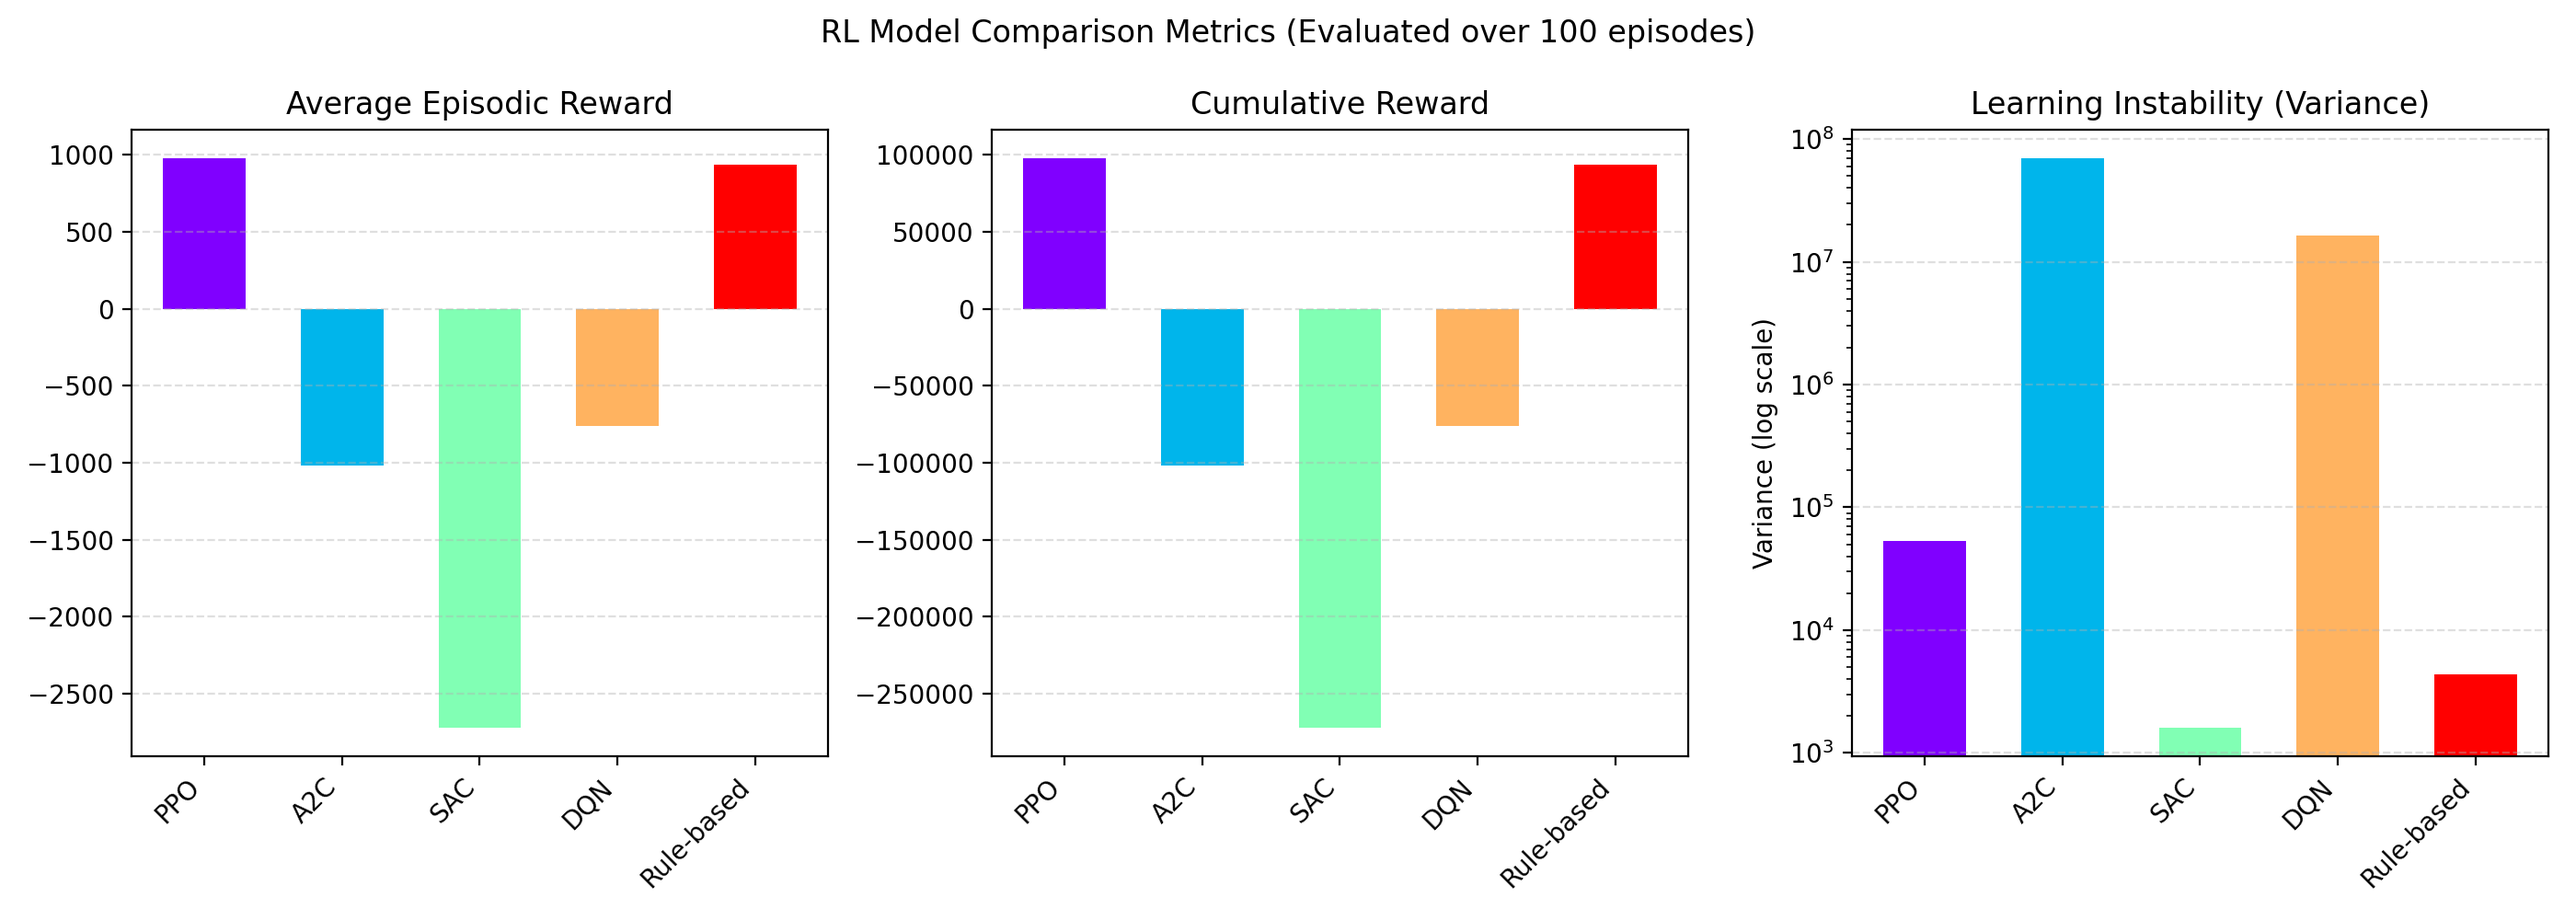
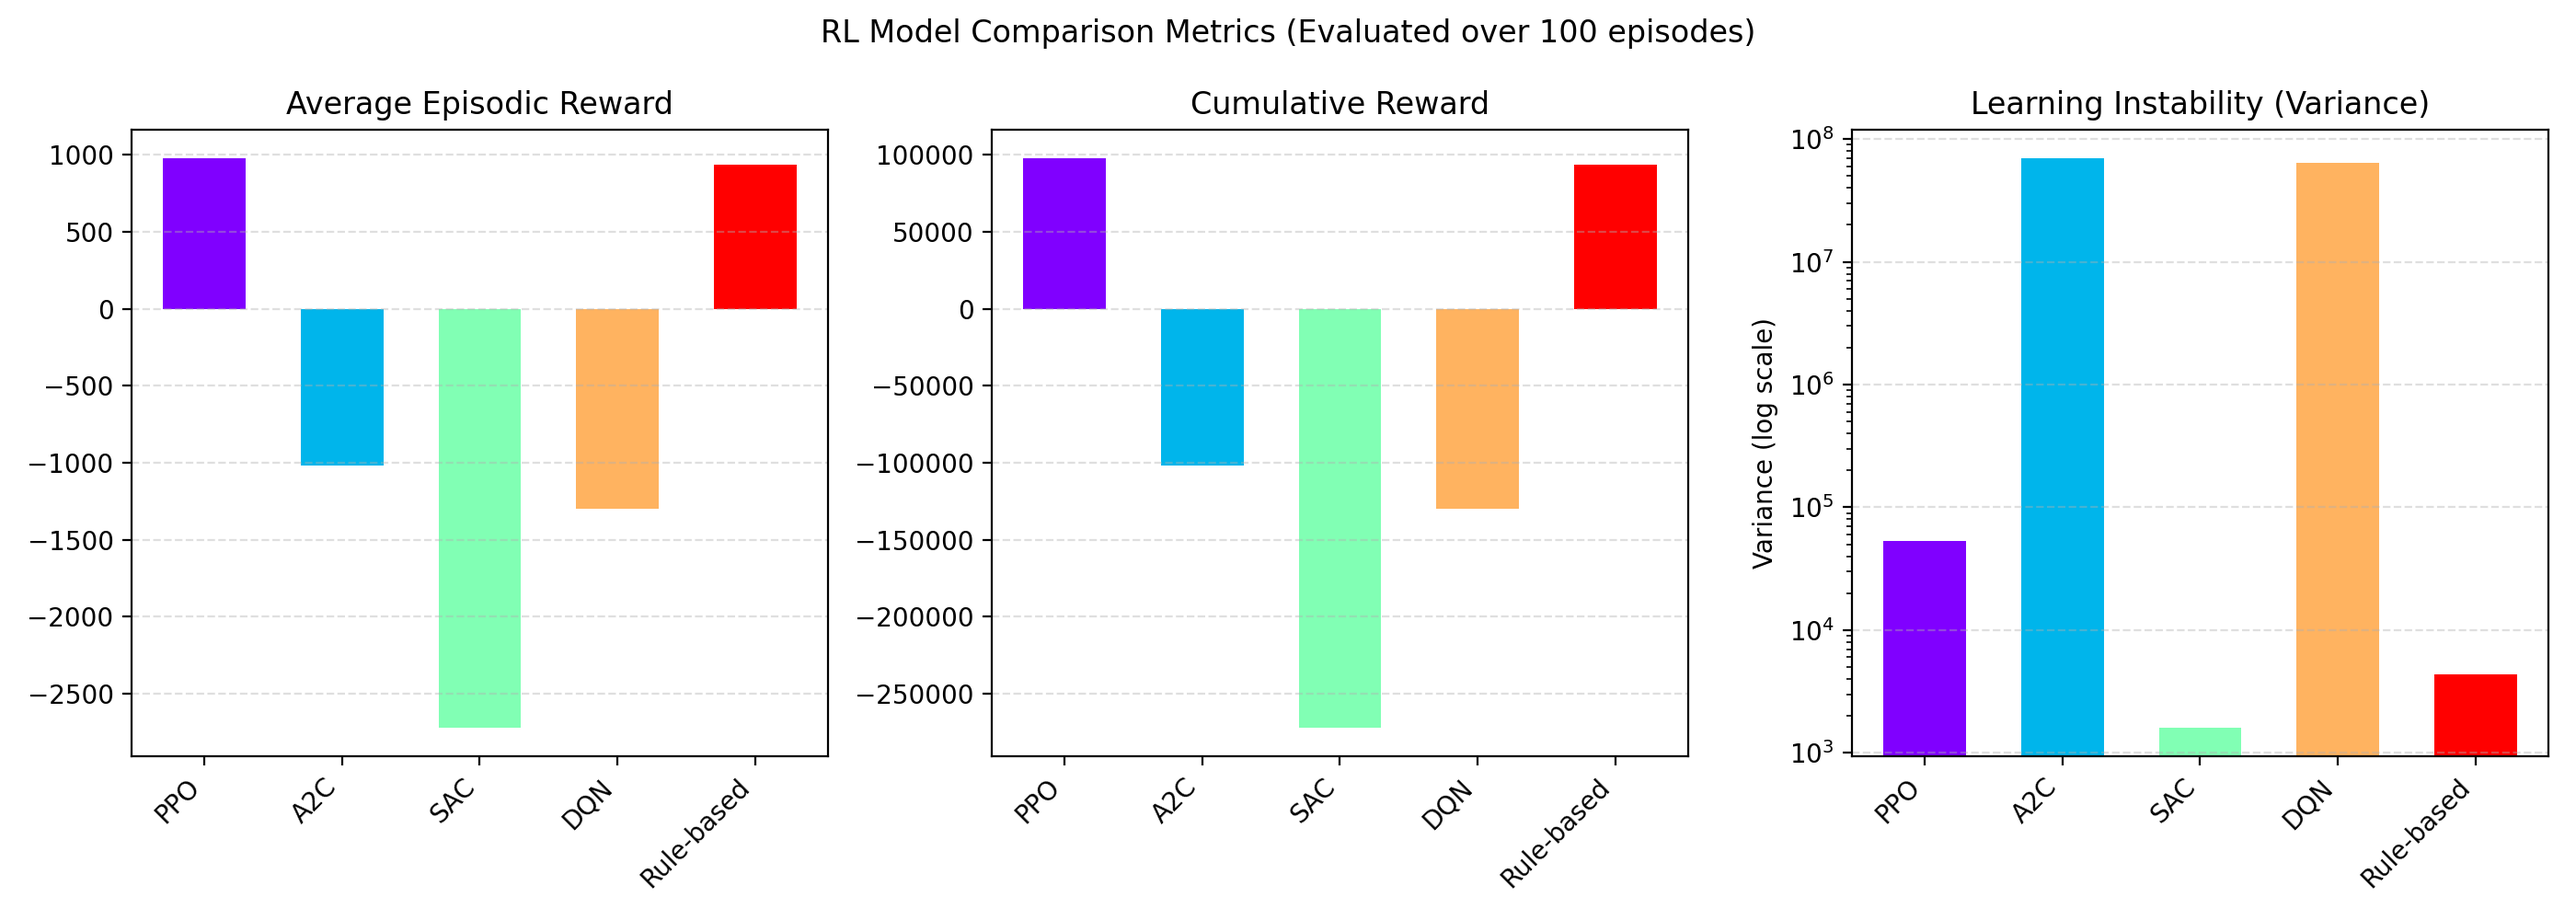
updated dqn results to comparison plot and table

Changed region(s): [[0.87, 0.155, 0.9321, 0.279], [0.2175, 0.465, 0.2796, 0.558], [0.5593, 0.465, 0.5904, 0.558]]

diff --git a/plot_all.py b/plot_all.py
@@ -21,33 +21,7 @@ rewards_sac = [
     -2751.5, -2738.7, -2686.8, -2683.0, -2709.2, -2698.1, -2683.9, -2817.8, -2683.0, -2693.4,
     -2683.0, -2692.7, -2819.5, -2693.4, -2695.8, -2695.3, -2686.9, -2690.8, -2683.0, -2794.0
 ]
-rewards_dqn = scores = [
-    539.37078651, -3481.63863318, -3639.25973046, -2745.69394765,
-    -374.81397261, -1104.12377086, -4041.55744872, -6040.94734777,
-    -9453.85118032, -2177.62476291, -900.60743569, -2406.21102496,
-    928.5, 939.0, 650.0, 915.25,
-    570.82786021, 551.03056535, 570.15384196, 932.5,
-    732.11328902, 211.9664788, 929.75, 752.21994982,
-    933.5, 923.0, 367.91656733, -1280.15619659,
-    -1310.70555837, -2379.87262609, -2180.13565058, -4194.93367662,
-    -9194.33190726, 722.89705036, 178.13276659, 921.25,
-    909.5, 900.0, 899.0, 739.59907052,
-    -343.13598943, -904.8877411, 917.5, 928.0,
-    922.25, 924.5, 915.25, 943.25,
-    457.5, 675.75, 923.25, 934.75,
-    936.5, 928.25, -508.25, 914.0,
-    720.75, 942.5, 808.75, -2805.40354206,
-    -14118.21196109, -8772.96495772, -22897.85332788, 176.02520818,
-    -555.41101977, -22657.39489829, 937.75, 940.5,
-    944.0, 955.5, 962.75, 949.25,
-    954.0, 968.5, 818.5, 974.5,
-    643.75, 777.25, 986.75, 979.25,
-    987.5, 971.25, 724.25, 685.25,
-    -363.75, 997.75, -1937.5, 997.75,
-    -3083.5, 959.25, 957.0, 961.0,
-    978.5, 973.0, 964.5, 948.0,
-    977.5, 988.0, 938.0, 925.5
-]
+rewards_dqn = scores = [935.0,839.8675821958195,-46599.28104512051,-28401.67552375052,-12771.431145987735,-11781.923217418109,-12466.87690406844,-2534.5575649473676,-1923.8081616785134,-1251.7647329710755,-1402.9728665766509,-1500.288597696093,-1354.9777266953047,-1386.1129186518099,-1705.071564531073,-1483.8735556503304,-875.5743795644739,894.652987431722,1007.5,902.5730616101582,895.2700183834102,1016.25,989.7332857515129,947.75,991.75,922.9129623896808,854.5566583479724,761.5145158218805,803.1305180583746,783.6797951608809,771.75,956.3997982320761,961.25,917.3105234939761,827.75,913.5,973.2764455117385,430.1037305781626,906.75,792.3028778332714,995.1443068169056,978.166913583245,897.0081595168251,983.75,953.0,989.2266002676779,999.0,935.25,988.5,989.25,995.25,1004.5,932.75,987.5,830.75,841.75,918.25,990.0,-1999.203003001121,884.5,964.5,1009.0,984.5,982.25,995.25,991.75,904.25,998.75,986.0,946.5,916.25,855.25,961.0,977.5,995.5,932.25,989.25,967.5,961.0,937.5,991.5,934.5,962.0,938.142626501628,962.75,957.25,-22750.345161314995,-50231.54299036813,-3690.6514743138764,941.25,1073.25,921.75,923.0,903.5,1009.0,1052.25,1027.5751020860762,1056.5,1021.5687557059748,1061.5]
 
 clrmap = plt.get_cmap('rainbow')
 
@@ -215,4 +189,3 @@ def plot_episodic_line(alg_names, reward_lists, save_path="plots/episodic_reward
 
 # default: episodic (non-cumulative, linear)
 plot_episodic_line(alg_names, reward_lists, logscale=True)
-plot_episodic_line(alg_names, reward_lists, cumulative=True)

diff --git a/plot_all_energy.py b/plot_all_energy.py
@@ -10,8 +10,7 @@ import utils
 
 a2c = np.load("models/a2c/a2c_1_episode_rewards_breakdown.npy")
 rulebased = np.load("models/rulebased_1_episode_rewards_breakdown.npy")
-
-print(a2c.shape, rulebased.shape)
+dqn = np.load("models/dqn/dqn_v5-0-0-0_episode_rewards_breakdown.npy")
 
 #skip the first row which is all zeros
 a2c_energy = a2c[1:,2].flatten()
@@ -20,8 +19,14 @@ a2c_energy = np.cumsum(a2c_energy)
 rulebased_energy = rulebased[1:,2].flatten()
 rulebased_energy = np.cumsum(rulebased_energy)
 
+dqn_energy = dqn[1:,2].flatten()
+dqn_energy = np.cumsum(dqn_energy)
+
+print(a2c.shape, rulebased.shape, dqn.shape)
+
 plt.plot(rulebased_energy, 'r--', label = 'Rule-based') # Energy
 plt.plot(a2c_energy, 'y-', label = 'A2C') # Energy
+plt.plot(dqn_energy, 'b-', label = 'DQN') # Energy
 # a2c_comfort = a2c[:,0].flatten()
 # plt.plot(a2c_comfort, 'g-', label = 'Comfort') # Comfort
 plt.xlabel("Step")
